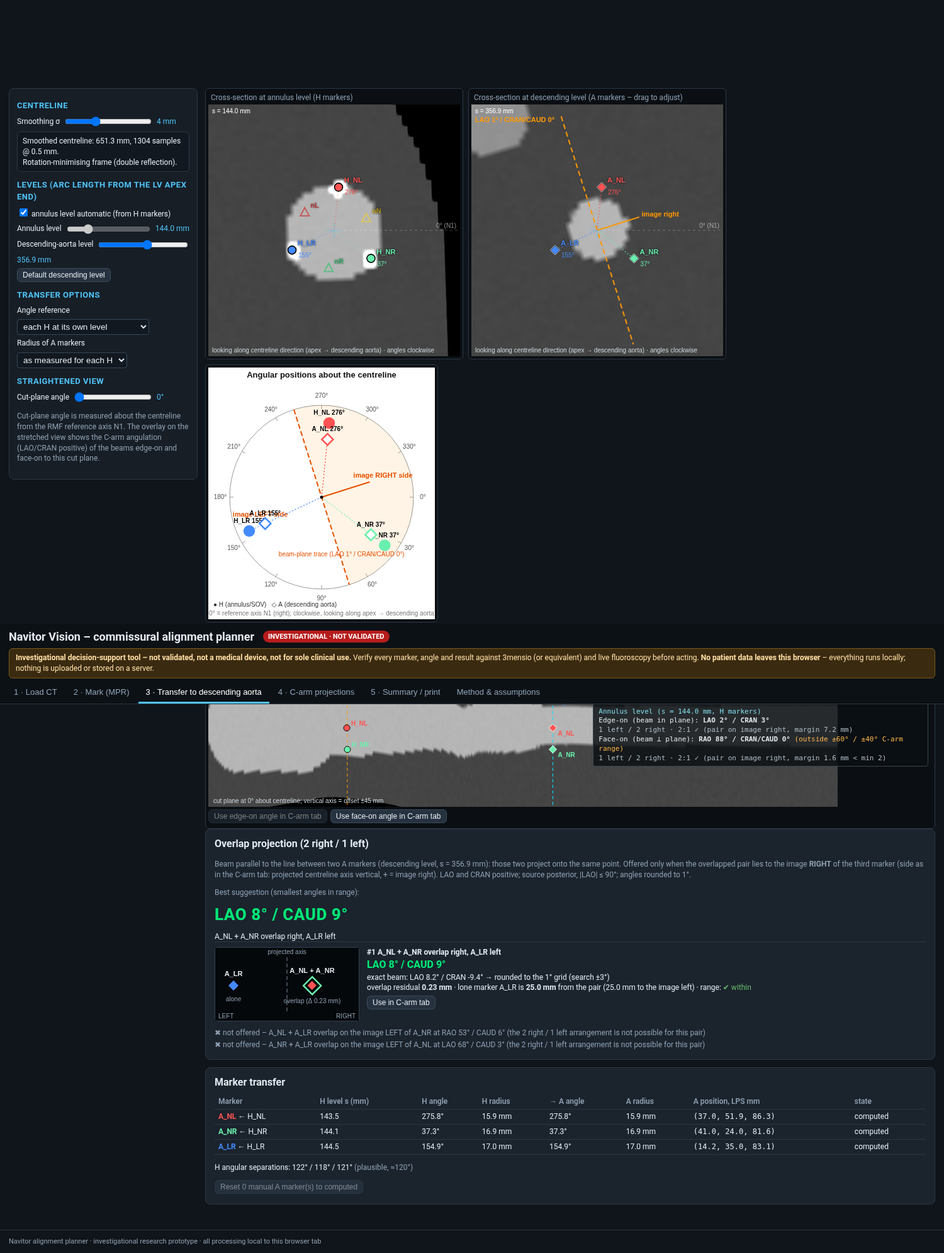
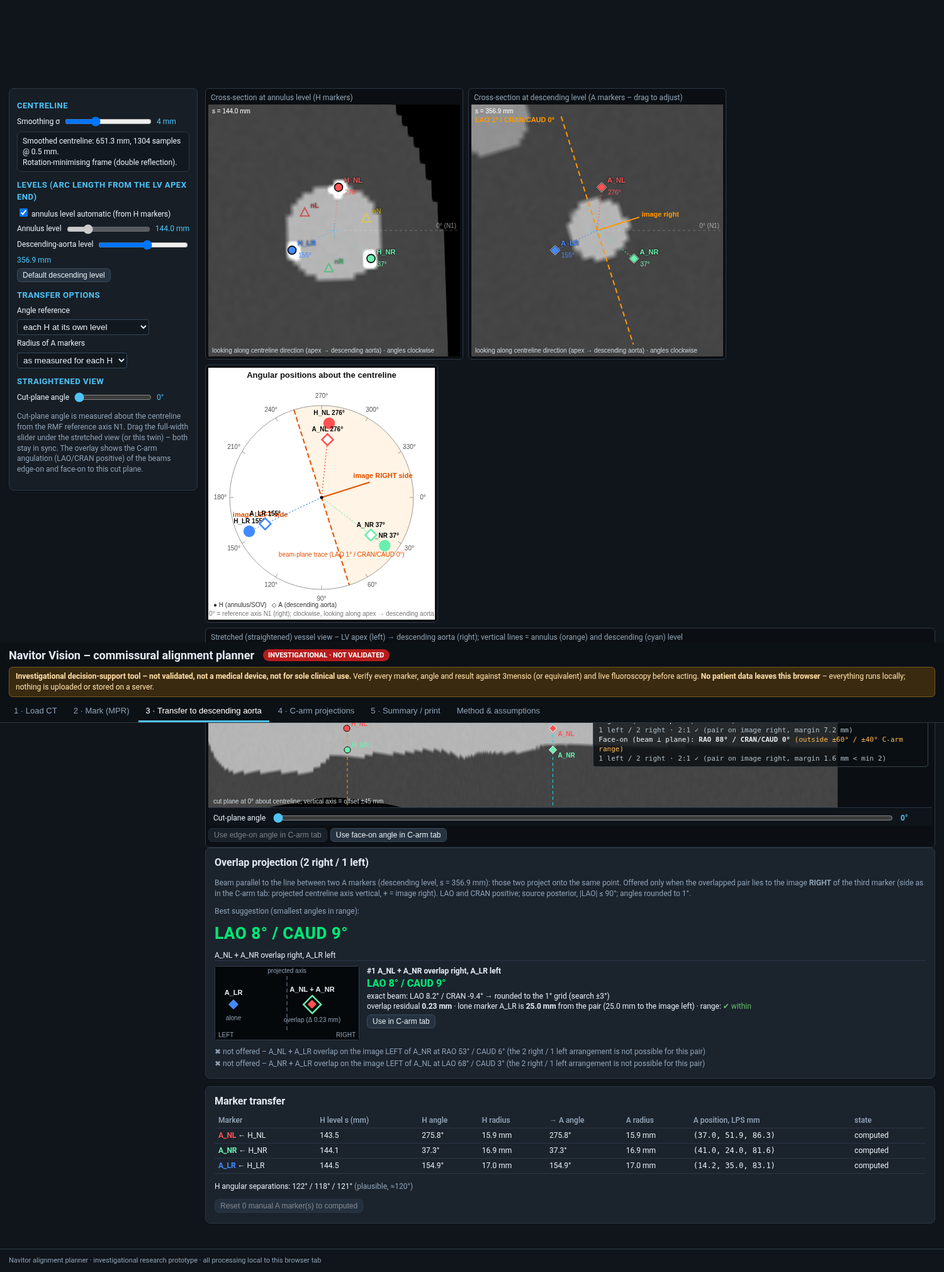
Transfer tab: Cut-plane angle slider under the stretched view (synced sidebar twin)
- primary full-width Cut-plane angle slider under the stretched vessel view (live degree readout)
- compact twin kept in the left sidebar; both drive the same S.p.cprAngle (setCprAngle)
- overlay, C-arm angulation panel and overlap panel update live from either control
- e2e: location under the view, drag/set under-view + sidebar twin sync, keyboard; refreshed 03/07/15 + new 18 screenshot
- help + README note the under-view primary + synced twin

diff --git a/index.html b/index.html
@@ -85,6 +85,14 @@ footer{padding:10px 14px;color:var(--mut);font-size:11px;border-top:1px solid va
 .slicebar{display:flex;align-items:center;gap:8px;padding:3px 2px 0}.slicebar input[type=range]{flex:1;min-width:0}.slicelab{min-width:150px;text-align:right;color:var(--mut)}
 .tag{font-size:10px;background:#8d6e00;color:#fff;border-radius:8px;padding:1px 7px;vertical-align:middle;font-weight:600}.autoOut{margin:4px 0}.autoBadge{display:inline-block;border-radius:4px;padding:2px 8px;font-weight:700;font-size:12px;margin:2px 0}.autoBadge.ok{background:#1b5e20;color:#fff}.autoBadge.warn{background:#8d6e00;color:#fff}.autoBadge.err{background:#b71c1c;color:#fff}.autoOut ul{margin:2px 0 2px 16px;padding:0}
 
+
+.cprSlider{display:flex;align-items:center;gap:10px;padding:6px 8px 2px;border-top:1px solid var(--line);background:#0e141a}
+.cprSlider .cprAngleMain{flex:1;margin:0;font-size:12px;color:var(--txt);gap:10px}
+.cprSlider .cprAngleMain input[type=range]{flex:1;min-width:120px;accent-color:var(--acc)}
+.cprSlider .cprAngleMain output{min-width:42px;color:var(--acc);font-weight:700;font-variant-numeric:tabular-nums}
+label.rng.compact{margin:4px 0}
+label.rng.compact input[type=range]{accent-color:var(--acc)}
+
 .vwrap.rel{position:relative}.cprOv{position:absolute;right:10px;top:26px;background:rgba(11,15,19,.84);border:1px solid #37474f;border-radius:4px;padding:4px 8px;font:11px/1.35 ui-monospace,Menlo,Consolas,monospace;color:#e0e6ea;pointer-events:none;max-width:46%}.cprOv .cprLv{margin-top:3px;color:#80deea}.cprOv .cprSt{color:#b0bec5}.cprUse{margin-top:4px;align-items:center}
 </style>
 </head>
@@ -212,8 +220,8 @@ footer{padding:10px 14px;color:var(--mut);font-size:11px;border-top:1px solid va
       <label class="sel">Radius of A markers <select id="radMode"><option value="keep">as measured for each H</option><option value="mean">mean of H radii</option><option value="fixed">fixed value</option></select></label>
       <label class="rng" id="fixedRow">Fixed radius <input type="number" id="fixedR" min="2" max="40" step="0.5" value="12" style="width:70px"> mm</label>
       <h3>Straightened view</h3>
-      <label class="rng">Cut-plane angle <input type="range" id="cprAngle" min="0" max="359" value="0"><output id="cprAngleO"></output></label>
-      <p class="muted small">Cut-plane angle is measured about the centreline from the RMF reference axis N1. The overlay on the stretched view shows the C-arm angulation (LAO/CRAN positive) of the beams edge-on and face-on to this cut plane.</p>
+      <label class="rng compact" title="Same control as under the stretched view">Cut-plane angle <input type="range" id="cprAngleSide" min="0" max="359" value="0" aria-label="Cut-plane angle (sidebar)"><output id="cprAngleSideO"></output></label>
+      <p class="muted small">Cut-plane angle is measured about the centreline from the RMF reference axis N1. Drag the full-width slider under the stretched view (or this twin) – both stay in sync. The overlay shows the C-arm angulation (LAO/CRAN positive) of the beams edge-on and face-on to this cut plane.</p>
     </aside>
     <div class="tmain">
       <div class="xrow">
@@ -222,6 +230,7 @@ footer{padding:10px 14px;color:var(--mut);font-size:11px;border-top:1px solid va
         <div class="vwrap"><canvas id="cvPolar1" width="360" height="400"></canvas></div>
       </div>
       <div class="vwrap wide rel"><div class="vtitle">Stretched (straightened) vessel view – LV apex (left) → descending aorta (right); vertical lines = annulus (orange) and descending (cyan) level</div><canvas id="cvCPR" width="1000" height="260"></canvas><div id="cprReadout" class="cprOv" aria-live="polite"></div>
+        <div class="cprSlider" id="cprSliderBar"><label class="rng cprAngleMain">Cut-plane angle <input type="range" id="cprAngle" min="0" max="359" value="0" aria-label="Cut-plane angle (under stretched view)"><output id="cprAngleO"></output></label></div>
         <div class="btnrow tight cprUse"><button class="btn sm" id="btnCprEdge">Use edge-on angle in C-arm tab</button><button class="btn sm" id="btnCprFace">Use face-on angle in C-arm tab</button><span id="cprUseMsg" class="muted small"></span></div></div>
       <div class="card" id="ovPanel"><h2>Overlap projection (2 right / 1 left)</h2><div id="ovBody"></div></div>
       <div id="transferTable"></div>
@@ -2544,7 +2553,9 @@ footer{padding:10px 14px;color:var(--mut);font-size:11px;border-top:1px solid va
     ['annLevel', 'descLevel'].forEach((id) => { $(id).max = Math.ceil(L); });
     $('annLevel').value = S.sH == null ? 0 : S.sH; $('descLevel').value = S.sD == null ? 0 : S.sD;
     $('annLevelO').textContent = S.sH == null ? '—' : f1(S.sH) + ' mm'; $('descLevelO').textContent = S.sD == null ? '—' : f1(S.sD) + ' mm';
-    $('annLevel').disabled = S.p.annAuto && HK.some((k) => S.m.H[k]); $('smoothO').textContent = S.p.smoothMm + ' mm'; $('cprAngleO').textContent = S.p.cprAngle + '°';
+    $('annLevel').disabled = S.p.annAuto && HK.some((k) => S.m.H[k]); $('smoothO').textContent = S.p.smoothMm + ' mm'; $('cprAngleO').textContent = S.p.cprAngle + '°'; $('cprAngleSideO').textContent = S.p.cprAngle + '°';
+    if (+$('cprAngle').value !== S.p.cprAngle) $('cprAngle').value = S.p.cprAngle;
+    if (+$('cprAngleSide').value !== S.p.cprAngle) $('cprAngleSide').value = S.p.cprAngle;
     $('fixedRow').style.display = S.p.radMode === 'fixed' ? 'flex' : 'none';
     $('clStats').textContent = S.cl ? `Smoothed centreline: ${f1(S.cl.length)} mm, ${S.cl.pts.length} samples @ 0.5 mm.\nRotation-minimising frame (double reflection).` : 'Need ≥ 2 centreline points (tab 2).';
     views.xann.draw(); views.xdesc.draw();
@@ -2755,7 +2766,7 @@ footer{padding:10px 14px;color:var(--mut);font-size:11px;border-top:1px solid va
 <li>Patient coordinates = DICOM LPS: x → patient left, y → posterior, z → superior (mm).</li>
 <li>C-arm: LAO positive, RAO negative; CRAN positive, CAUD negative. Beam direction (source→detector) d = (sin LAO·cos CRAN, −cos LAO·cos CRAN, sin CRAN). AP = 0°/0° has the source posterior and detector anterior. Image is displayed as seen from the detector: at AP patient-left is on image right, head is up.</li>
 <li>Angles about the centreline are measured clockwise as seen looking along the centreline direction (apex → descending aorta), from the RMF reference axis N1.</li>
-<li><b>Stretched view: C-arm angulation of the cut plane.</b> At a centreline level with frame (T, N1, N2) the cut plane at angle α is span{T, e}, e = cos α·N1 + sin α·N2 (the vertical axis of the stretched view); its normal is n = T × e. <b>Edge-on</b>: beam along e (in the plane and perpendicular to the centreline) – the plane projects to a line along the projected axis (any beam within the plane keeps it edge-on and gives the same marker left/right split, n·(P−C)). <b>Face-on</b>: beam along n – the plane is seen full-face and the marker lateral offsets are e·(P−C), i.e. what the stretched view displays. The beam is converted to LAO/RAO and CRAN/CAUD with the C-arm convention above (LAO, CRAN positive), choosing the representation with the source posterior (|LAO| ≤ 90°), rounded to the 1° grid of the C-arm tab; angles outside ±60° LAO/RAO or ±40° CRAN/CAUD are flagged and cannot be sent to the C-arm tab. The “left / right” counts and the 2:1 status are those of the same projection maths as the C-arm tab (A markers at the descending level, H markers at the annulus level). Face-on at α equals edge-on at α + 90°.</li></ul>
+<li><b>Stretched view: C-arm angulation of the cut plane.</b> The <b>Cut-plane angle</b> slider sits under the stretched vessel view (full width; a compact twin in the left sidebar stays in sync – one logical control). At a centreline level with frame (T, N1, N2) the cut plane at angle α is span{T, e}, e = cos α·N1 + sin α·N2 (the vertical axis of the stretched view); its normal is n = T × e. <b>Edge-on</b>: beam along e (in the plane and perpendicular to the centreline) – the plane projects to a line along the projected axis (any beam within the plane keeps it edge-on and gives the same marker left/right split, n·(P−C)). <b>Face-on</b>: beam along n – the plane is seen full-face and the marker lateral offsets are e·(P−C), i.e. what the stretched view displays. The beam is converted to LAO/RAO and CRAN/CAUD with the C-arm convention above (LAO, CRAN positive), choosing the representation with the source posterior (|LAO| ≤ 90°), rounded to the 1° grid of the C-arm tab; angles outside ±60° LAO/RAO or ±40° CRAN/CAUD are flagged and cannot be sent to the C-arm tab. The “left / right” counts and the 2:1 status are those of the same projection maths as the C-arm tab (A markers at the descending level, H markers at the annulus level). Face-on at α equals edge-on at α + 90°.</li></ul>
 <h3>Marker colours</h3><ul>
 <li><b style="color:#ffd600">▲ NCC = yellow</b>, <b style="color:#d50000">▲ LCC = red</b>, <b style="color:#00c853">▲ RCC = green</b> (cusp nadirs: triangles with a white outline, in markers, labels, lists, cross-sections, diagrams and the summary).</li>
 <li>H commissure markers are <b>circles</b>: H_NL <span style="color:#ff5252">red</span>, H_NR <span style="color:#69f0ae">green</span>, H_LR <span style="color:#448aff">blue</span> (unchanged; lighter tones than the nadir red/green, different shape, and always labelled). A markers are diamonds.</li>
@@ -2949,7 +2960,7 @@ ${r.warnings.length ? '<ul class="warn small">' + r.warnings.map((w) => '<li>' +
     } catch (e) { status('Could not load markers: ' + e.message, 'err'); }
   }
   function syncControls() {
-    $('smooth').value = S.p.smoothMm; $('chkAnnAuto').checked = S.p.annAuto; $('refMode').value = S.p.refMode; $('radMode').value = S.p.radMode; $('fixedR').value = S.p.fixedR; $('cprAngle').value = S.p.cprAngle;
+    $('smooth').value = S.p.smoothMm; $('chkAnnAuto').checked = S.p.annAuto; $('refMode').value = S.p.refMode; $('radMode').value = S.p.radMode; $('fixedR').value = S.p.fixedR; $('cprAngle').value = S.p.cprAngle; $('cprAngleSide').value = S.p.cprAngle;
     $('minMargin').value = S.p.minMargin; $('pracFrac').value = Math.round(S.p.pracFrac * 100); $('sideSel').value = S.p.side; $('chkStable').checked = S.p.stableOnly;
   }
 
@@ -3011,7 +3022,8 @@ ${r.warnings.length ? '<ul class="warn small">' + r.warnings.map((w) => '<li>' +
     $('radMode').onchange = (e) => { S.p.radMode = e.target.value; onChanged(); }; $('fixedR').oninput = (e) => { S.p.fixedR = +e.target.value || 12; onChanged(); };
     $('ovBody').addEventListener('click', (e) => { const b = e.target.closest('button[data-ovuse]'); if (b && !b.disabled) useOverlap(+b.dataset.ovuse); });
     $('btnCprEdge').onclick = () => useCprAngle('edge'); $('btnCprFace').onclick = () => useCprAngle('face');
-    $('cprAngle').oninput = (e) => { S.p.cprAngle = +e.target.value; cprCache = null; renderAll(); };
+    const setCprAngle = (v) => { S.p.cprAngle = ((+v % 360) + 360) % 360; $('cprAngle').value = S.p.cprAngle; $('cprAngleSide').value = S.p.cprAngle; $('cprAngleSide').value = S.p.cprAngle; cprCache = null; renderAll(); };
+    $('cprAngle').oninput = (e) => setCprAngle(e.target.value); $('cprAngleSide').oninput = (e) => setCprAngle(e.target.value);
     // carm controls
     $('minMargin').onchange = (e) => { S.p.minMargin = Math.max(0, +e.target.value || 0); rescan(); renderAll(); };
     $('pracFrac').onchange = (e) => { S.p.pracFrac = Math.min(1, Math.max(0.1, (+e.target.value || 70) / 100)); rerank(); renderAll(); };

diff --git a/tests/e2e.js b/tests/e2e.js
@@ -139,12 +139,29 @@ async function clickAt(pg, key, P, opts) { await setCross(pg, P); const [x, y] =
     ok(/\d+ left \/ \d+ right/.test(t) && /(2:1 ✓|not 2:1)/.test(t), t); ok(await pg.isVisible('#cprReadout'), 'overlay visible');
     await pg.screenshot({ path: path.join(shots, '15_stretched_carm_angulation.png'), fullPage: true });
   });
+  await test('Cut-plane angle primary slider sits under the stretched view (full width); compact sidebar twin stays in sync (one logical control)', async () => {
+    const loc = await pg.evaluate(() => {
+      const under = document.getElementById('cprAngle'), side = document.getElementById('cprAngleSide'), bar = document.getElementById('cprSliderBar');
+      const wrap = document.getElementById('cvCPR').closest('.vwrap');
+      return {
+        underInWrap: !!(under && wrap && wrap.contains(under) && bar && wrap.contains(bar)),
+        underAfterCanvas: !!(under && (under.compareDocumentPosition(document.getElementById('cvCPR')) & Node.DOCUMENT_POSITION_PRECEDING)),
+        underBeforeButtons: !!(under && (under.compareDocumentPosition(document.getElementById('btnCprEdge')) & Node.DOCUMENT_POSITION_FOLLOWING)),
+        sideInAside: !!(side && document.querySelector('#tab-transfer aside.panel').contains(side)),
+        label: bar ? bar.textContent.trim().slice(0, 20) : '',
+        ids: { under: !!under, side: !!side, outU: !!document.getElementById('cprAngleO'), outS: !!document.getElementById('cprAngleSideO') }
+      };
+    });
+    ok(loc.underInWrap && loc.underAfterCanvas && loc.underBeforeButtons, 'primary under stretched view: ' + JSON.stringify(loc));
+    ok(loc.sideInAside && loc.ids.under && loc.ids.side && loc.ids.outU && loc.ids.outS, 'sidebar twin present: ' + JSON.stringify(loc));
+    ok(/Cut-plane angle/.test(loc.label), 'label ' + loc.label);
+  });
   await test('moving the cut-plane slider with REAL keyboard/mouse events changes the overlay live; angles equal the independent maths (edge-on = beam along e, face-on = beam along n) at both levels', async () => {
     const sl = pg.locator('#cprAngle'); await sl.focus(); const seen = new Set();
     seen.add(await cprTxt());
     for (let i = 0; i < 4; i++) { for (let k = 0; k < 25; k++) await pg.keyboard.press('ArrowRight'); seen.add(await cprTxt()); }
     ok(seen.size === 5, 'overlay text should change at each of the 4 slider moves: ' + seen.size);
-    await pg.waitForTimeout(250); const a100 = await pg.evaluate(() => NavApp.S.p.cprAngle); ok(a100 >= 96 && a100 <= 100 && (await pg.textContent('#cprAngleO')) === a100 + '°' && new RegExp('Cut plane ' + a100 + '°').test(await cprTxt()), 'label ' + await pg.textContent('#cprAngleO') + ' / ' + a100);
+    await pg.waitForTimeout(250); const a100 = await pg.evaluate(() => NavApp.S.p.cprAngle); ok(a100 >= 96 && a100 <= 100 && (await pg.textContent('#cprAngleO')) === a100 + '°' && (await pg.textContent('#cprAngleSideO')) === a100 + '°' && +await pg.inputValue('#cprAngleSide') === a100 && new RegExp('Cut plane ' + a100 + '°').test(await cprTxt()), 'under-view + sidebar twin synced at ' + a100 + '° / label ' + await pg.textContent('#cprAngleO'));
     await sl.evaluate((el) => el.scrollIntoView({ block: 'center' })); const box = await sl.boundingBox(); await pg.mouse.click(box.x + box.width * 0.5, box.y + box.height / 2); await pg.waitForTimeout(100);       // click the middle of the track -> ~180°
     const a = await pg.evaluate(() => NavApp.S.p.cprAngle); ok(a > 160 && a < 200, 'slider click -> ' + a);
     // independent check in the page: angles from first principles (no use of cutPlaneBeams)
@@ -163,6 +180,41 @@ async function clickAt(pg, key, P, opts) { await setCross(pg, P); const [x, y] =
     const g = async (al) => { await pg.evaluate((al) => { const el = document.getElementById('cprAngle'); el.value = String(al); el.dispatchEvent(new Event('input', { bubbles: true })); }, al); await pg.waitForTimeout(150); return pg.evaluate(() => { const D = NavApp.cprBeams().levels.desc; return { e: [D.edge.lao, D.edge.cran], f: [D.face.lao, D.face.cran], txt: document.getElementById('cprReadout').textContent }; }); };
     const a = await g(40), b = await g(130), c = await g(300);
     ok(JSON.stringify(a.f) === JSON.stringify(b.e), 'face(40) ' + a.f + ' vs edge(130) ' + b.e); ok(a.txt !== b.txt && b.txt !== c.txt, 'text should change');
+  });
+  await test('under-view Cut-plane slider: drag/set updates overlay, C-arm angulation panel and sidebar twin live; sidebar twin drives the under-view slider too', async () => {
+    const under = pg.locator('#cprAngle'), side = pg.locator('#cprAngleSide');
+    await under.focus();
+    // set via the under-view control (dispatch input as if dragged)
+    await pg.evaluate(() => { const el = document.getElementById('cprAngle'); el.value = '45'; el.dispatchEvent(new Event('input', { bubbles: true })); });
+    await pg.waitForTimeout(250);
+    let st = await pg.evaluate(() => ({ a: NavApp.S.p.cprAngle, u: +document.getElementById('cprAngle').value, s: +document.getElementById('cprAngleSide').value, ou: document.getElementById('cprAngleO').textContent, os: document.getElementById('cprAngleSideO').textContent, ov: document.getElementById('cprReadout').textContent, h: (() => { const d = document.getElementById('cvCPR').getContext('2d').getImageData(0, 0, 100, 60).data; let h = 0; for (let i = 0; i < d.length; i += 17) h = (h * 33 + d[i]) | 0; return h; })() }));
+    ok(st.a === 45 && st.u === 45 && st.s === 45 && st.ou === '45°' && st.os === '45°', 'under-view set -> both synced: ' + JSON.stringify(st));
+    ok(/Cut plane 45°/.test(st.ov) && /Edge-on/.test(st.ov) && /Face-on/.test(st.ov), 'overlay updated: ' + st.ov.slice(0, 120));
+    const hash45 = st.h;
+    // real mouse drag on the under-view slider thumb area (click toward the right end)
+    const box = await under.boundingBox(); ok(box && box.width > 80, 'slider visible under the view');
+    // drag the thumb across the track (more reliable than a single click on some Chrome builds)
+    await pg.mouse.move(box.x + box.width * 0.15, box.y + box.height / 2); await pg.mouse.down();
+    await pg.mouse.move(box.x + box.width * 0.75, box.y + box.height / 2, { steps: 12 }); await pg.mouse.up();
+    await pg.waitForTimeout(350);
+    st = await pg.evaluate(() => ({ a: NavApp.S.p.cprAngle, s: +document.getElementById('cprAngleSide').value, ou: document.getElementById('cprAngleO').textContent, os: document.getElementById('cprAngleSideO').textContent, ov: document.getElementById('cprReadout').textContent, h: (() => { const d = document.getElementById('cvCPR').getContext('2d').getImageData(0, 0, 100, 60).data; let h = 0; for (let i = 0; i < d.length; i += 17) h = (h * 33 + d[i]) | 0; return h; })() }));
+    ok(st.a > 45 && st.a < 320 && st.s === st.a && st.ou === st.a + '°' && st.os === st.a + '°', 'drag under-view -> synced at ' + st.a);
+    ok(new RegExp('Cut plane ' + st.a + '°').test(st.ov), 'overlay follows drag');
+    ok(st.h !== hash45, 'stretched view re-rendered after drag (hash ' + hash45 + ' -> ' + st.h + ')');
+    const afterDrag = st.a;
+    // drive from the sidebar twin
+    await pg.evaluate(() => { const el = document.getElementById('cprAngleSide'); el.value = '120'; el.dispatchEvent(new Event('input', { bubbles: true })); });
+    await pg.waitForTimeout(250);
+    st = await pg.evaluate(() => ({ a: NavApp.S.p.cprAngle, u: +document.getElementById('cprAngle').value, s: +document.getElementById('cprAngleSide').value, ou: document.getElementById('cprAngleO').textContent, os: document.getElementById('cprAngleSideO').textContent, ov: document.getElementById('cprReadout').textContent }));
+    ok(st.a === 120 && st.u === 120 && st.s === 120 && st.ou === '120°' && st.os === '120°', 'sidebar twin drives under-view: ' + JSON.stringify(st));
+    ok(/Cut plane 120°/.test(st.ov), 'overlay follows sidebar'); ok(afterDrag !== 120, 'value actually changed from drag position');
+    // keyboard on the under-view slider
+    await under.focus(); await pg.keyboard.press('ArrowRight'); await pg.keyboard.press('ArrowRight'); await pg.waitForTimeout(200);
+    const aKey = await pg.evaluate(() => NavApp.S.p.cprAngle); ok(aKey === 122, 'ArrowRight on under-view slider -> ' + aKey);
+    ok((await pg.textContent('#cprAngleSideO')) === '122°' && +await pg.inputValue('#cprAngleSide') === 122, 'sidebar twin follows keyboard');
+    await pg.locator('#cprSliderBar').scrollIntoViewIfNeeded(); await pg.screenshot({ path: path.join(shots, '18_cutplane_slider_under_stretched.png'), fullPage: true });
+    // restore 0 for following tests
+    await pg.evaluate(() => { const el = document.getElementById('cprAngle'); el.value = '0'; el.dispatchEvent(new Event('input', { bubbles: true })); });
   });
   await test('"Use edge-on / face-on angle in C-arm tab": selects that projection (1° grid) in the C-arm tab; the C-arm tab evaluation equals the overlay status; out-of-range angles disable the button', async () => {
     const out = [];

diff --git a/src/js/app.js b/src/js/app.js
@@ -399,7 +399,9 @@
     ['annLevel', 'descLevel'].forEach((id) => { $(id).max = Math.ceil(L); });
     $('annLevel').value = S.sH == null ? 0 : S.sH; $('descLevel').value = S.sD == null ? 0 : S.sD;
     $('annLevelO').textContent = S.sH == null ? '—' : f1(S.sH) + ' mm'; $('descLevelO').textContent = S.sD == null ? '—' : f1(S.sD) + ' mm';
-    $('annLevel').disabled = S.p.annAuto && HK.some((k) => S.m.H[k]); $('smoothO').textContent = S.p.smoothMm + ' mm'; $('cprAngleO').textContent = S.p.cprAngle + '°';
+    $('annLevel').disabled = S.p.annAuto && HK.some((k) => S.m.H[k]); $('smoothO').textContent = S.p.smoothMm + ' mm'; $('cprAngleO').textContent = S.p.cprAngle + '°'; $('cprAngleSideO').textContent = S.p.cprAngle + '°';
+    if (+$('cprAngle').value !== S.p.cprAngle) $('cprAngle').value = S.p.cprAngle;
+    if (+$('cprAngleSide').value !== S.p.cprAngle) $('cprAngleSide').value = S.p.cprAngle;
     $('fixedRow').style.display = S.p.radMode === 'fixed' ? 'flex' : 'none';
     $('clStats').textContent = S.cl ? `Smoothed centreline: ${f1(S.cl.length)} mm, ${S.cl.pts.length} samples @ 0.5 mm.\nRotation-minimising frame (double reflection).` : 'Need ≥ 2 centreline points (tab 2).';
     views.xann.draw(); views.xdesc.draw();
@@ -610,7 +612,7 @@
 <li>Patient coordinates = DICOM LPS: x → patient left, y → posterior, z → superior (mm).</li>
 <li>C-arm: LAO positive, RAO negative; CRAN positive, CAUD negative. Beam direction (source→detector) d = (sin LAO·cos CRAN, −cos LAO·cos CRAN, sin CRAN). AP = 0°/0° has the source posterior and detector anterior. Image is displayed as seen from the detector: at AP patient-left is on image right, head is up.</li>
 <li>Angles about the centreline are measured clockwise as seen looking along the centreline direction (apex → descending aorta), from the RMF reference axis N1.</li>
-<li><b>Stretched view: C-arm angulation of the cut plane.</b> At a centreline level with frame (T, N1, N2) the cut plane at angle α is span{T, e}, e = cos α·N1 + sin α·N2 (the vertical axis of the stretched view); its normal is n = T × e. <b>Edge-on</b>: beam along e (in the plane and perpendicular to the centreline) – the plane projects to a line along the projected axis (any beam within the plane keeps it edge-on and gives the same marker left/right split, n·(P−C)). <b>Face-on</b>: beam along n – the plane is seen full-face and the marker lateral offsets are e·(P−C), i.e. what the stretched view displays. The beam is converted to LAO/RAO and CRAN/CAUD with the C-arm convention above (LAO, CRAN positive), choosing the representation with the source posterior (|LAO| ≤ 90°), rounded to the 1° grid of the C-arm tab; angles outside ±60° LAO/RAO or ±40° CRAN/CAUD are flagged and cannot be sent to the C-arm tab. The “left / right” counts and the 2:1 status are those of the same projection maths as the C-arm tab (A markers at the descending level, H markers at the annulus level). Face-on at α equals edge-on at α + 90°.</li></ul>
+<li><b>Stretched view: C-arm angulation of the cut plane.</b> The <b>Cut-plane angle</b> slider sits under the stretched vessel view (full width; a compact twin in the left sidebar stays in sync – one logical control). At a centreline level with frame (T, N1, N2) the cut plane at angle α is span{T, e}, e = cos α·N1 + sin α·N2 (the vertical axis of the stretched view); its normal is n = T × e. <b>Edge-on</b>: beam along e (in the plane and perpendicular to the centreline) – the plane projects to a line along the projected axis (any beam within the plane keeps it edge-on and gives the same marker left/right split, n·(P−C)). <b>Face-on</b>: beam along n – the plane is seen full-face and the marker lateral offsets are e·(P−C), i.e. what the stretched view displays. The beam is converted to LAO/RAO and CRAN/CAUD with the C-arm convention above (LAO, CRAN positive), choosing the representation with the source posterior (|LAO| ≤ 90°), rounded to the 1° grid of the C-arm tab; angles outside ±60° LAO/RAO or ±40° CRAN/CAUD are flagged and cannot be sent to the C-arm tab. The “left / right” counts and the 2:1 status are those of the same projection maths as the C-arm tab (A markers at the descending level, H markers at the annulus level). Face-on at α equals edge-on at α + 90°.</li></ul>
 <h3>Marker colours</h3><ul>
 <li><b style="color:#ffd600">▲ NCC = yellow</b>, <b style="color:#d50000">▲ LCC = red</b>, <b style="color:#00c853">▲ RCC = green</b> (cusp nadirs: triangles with a white outline, in markers, labels, lists, cross-sections, diagrams and the summary).</li>
 <li>H commissure markers are <b>circles</b>: H_NL <span style="color:#ff5252">red</span>, H_NR <span style="color:#69f0ae">green</span>, H_LR <span style="color:#448aff">blue</span> (unchanged; lighter tones than the nadir red/green, different shape, and always labelled). A markers are diamonds.</li>
@@ -804,7 +806,7 @@ ${r.warnings.length ? '<ul class="warn small">' + r.warnings.map((w) => '<li>' +
     } catch (e) { status('Could not load markers: ' + e.message, 'err'); }
   }
   function syncControls() {
-    $('smooth').value = S.p.smoothMm; $('chkAnnAuto').checked = S.p.annAuto; $('refMode').value = S.p.refMode; $('radMode').value = S.p.radMode; $('fixedR').value = S.p.fixedR; $('cprAngle').value = S.p.cprAngle;
+    $('smooth').value = S.p.smoothMm; $('chkAnnAuto').checked = S.p.annAuto; $('refMode').value = S.p.refMode; $('radMode').value = S.p.radMode; $('fixedR').value = S.p.fixedR; $('cprAngle').value = S.p.cprAngle; $('cprAngleSide').value = S.p.cprAngle;
     $('minMargin').value = S.p.minMargin; $('pracFrac').value = Math.round(S.p.pracFrac * 100); $('sideSel').value = S.p.side; $('chkStable').checked = S.p.stableOnly;
   }
 
@@ -866,7 +868,8 @@ ${r.warnings.length ? '<ul class="warn small">' + r.warnings.map((w) => '<li>' +
     $('radMode').onchange = (e) => { S.p.radMode = e.target.value; onChanged(); }; $('fixedR').oninput = (e) => { S.p.fixedR = +e.target.value || 12; onChanged(); };
     $('ovBody').addEventListener('click', (e) => { const b = e.target.closest('button[data-ovuse]'); if (b && !b.disabled) useOverlap(+b.dataset.ovuse); });
     $('btnCprEdge').onclick = () => useCprAngle('edge'); $('btnCprFace').onclick = () => useCprAngle('face');
-    $('cprAngle').oninput = (e) => { S.p.cprAngle = +e.target.value; cprCache = null; renderAll(); };
+    const setCprAngle = (v) => { S.p.cprAngle = ((+v % 360) + 360) % 360; $('cprAngle').value = S.p.cprAngle; $('cprAngleSide').value = S.p.cprAngle; $('cprAngleSide').value = S.p.cprAngle; cprCache = null; renderAll(); };
+    $('cprAngle').oninput = (e) => setCprAngle(e.target.value); $('cprAngleSide').oninput = (e) => setCprAngle(e.target.value);
     // carm controls
     $('minMargin').onchange = (e) => { S.p.minMargin = Math.max(0, +e.target.value || 0); rescan(); renderAll(); };
     $('pracFrac').onchange = (e) => { S.p.pracFrac = Math.min(1, Math.max(0.1, (+e.target.value || 70) / 100)); rerank(); renderAll(); };

diff --git a/src/index.template.html b/src/index.template.html
@@ -130,8 +130,8 @@
       <label class="sel">Radius of A markers <select id="radMode"><option value="keep">as measured for each H</option><option value="mean">mean of H radii</option><option value="fixed">fixed value</option></select></label>
       <label class="rng" id="fixedRow">Fixed radius <input type="number" id="fixedR" min="2" max="40" step="0.5" value="12" style="width:70px"> mm</label>
       <h3>Straightened view</h3>
-      <label class="rng">Cut-plane angle <input type="range" id="cprAngle" min="0" max="359" value="0"><output id="cprAngleO"></output></label>
-      <p class="muted small">Cut-plane angle is measured about the centreline from the RMF reference axis N1. The overlay on the stretched view shows the C-arm angulation (LAO/CRAN positive) of the beams edge-on and face-on to this cut plane.</p>
+      <label class="rng compact" title="Same control as under the stretched view">Cut-plane angle <input type="range" id="cprAngleSide" min="0" max="359" value="0" aria-label="Cut-plane angle (sidebar)"><output id="cprAngleSideO"></output></label>
+      <p class="muted small">Cut-plane angle is measured about the centreline from the RMF reference axis N1. Drag the full-width slider under the stretched view (or this twin) – both stay in sync. The overlay shows the C-arm angulation (LAO/CRAN positive) of the beams edge-on and face-on to this cut plane.</p>
     </aside>
     <div class="tmain">
       <div class="xrow">
@@ -140,6 +140,7 @@
         <div class="vwrap"><canvas id="cvPolar1" width="360" height="400"></canvas></div>
       </div>
       <div class="vwrap wide rel"><div class="vtitle">Stretched (straightened) vessel view – LV apex (left) → descending aorta (right); vertical lines = annulus (orange) and descending (cyan) level</div><canvas id="cvCPR" width="1000" height="260"></canvas><div id="cprReadout" class="cprOv" aria-live="polite"></div>
+        <div class="cprSlider" id="cprSliderBar"><label class="rng cprAngleMain">Cut-plane angle <input type="range" id="cprAngle" min="0" max="359" value="0" aria-label="Cut-plane angle (under stretched view)"><output id="cprAngleO"></output></label></div>
         <div class="btnrow tight cprUse"><button class="btn sm" id="btnCprEdge">Use edge-on angle in C-arm tab</button><button class="btn sm" id="btnCprFace">Use face-on angle in C-arm tab</button><span id="cprUseMsg" class="muted small"></span></div></div>
       <div class="card" id="ovPanel"><h2>Overlap projection (2 right / 1 left)</h2><div id="ovBody"></div></div>
       <div id="transferTable"></div>

diff --git a/src/css/style.css b/src/css/style.css
@@ -79,4 +79,12 @@ footer{padding:10px 14px;color:var(--mut);font-size:11px;border-top:1px solid va
 .slicebar{display:flex;align-items:center;gap:8px;padding:3px 2px 0}.slicebar input[type=range]{flex:1;min-width:0}.slicelab{min-width:150px;text-align:right;color:var(--mut)}
 .tag{font-size:10px;background:#8d6e00;color:#fff;border-radius:8px;padding:1px 7px;vertical-align:middle;font-weight:600}.autoOut{margin:4px 0}.autoBadge{display:inline-block;border-radius:4px;padding:2px 8px;font-weight:700;font-size:12px;margin:2px 0}.autoBadge.ok{background:#1b5e20;color:#fff}.autoBadge.warn{background:#8d6e00;color:#fff}.autoBadge.err{background:#b71c1c;color:#fff}.autoOut ul{margin:2px 0 2px 16px;padding:0}
 
+
+.cprSlider{display:flex;align-items:center;gap:10px;padding:6px 8px 2px;border-top:1px solid var(--line);background:#0e141a}
+.cprSlider .cprAngleMain{flex:1;margin:0;font-size:12px;color:var(--txt);gap:10px}
+.cprSlider .cprAngleMain input[type=range]{flex:1;min-width:120px;accent-color:var(--acc)}
+.cprSlider .cprAngleMain output{min-width:42px;color:var(--acc);font-weight:700;font-variant-numeric:tabular-nums}
+label.rng.compact{margin:4px 0}
+label.rng.compact input[type=range]{accent-color:var(--acc)}
+
 .vwrap.rel{position:relative}.cprOv{position:absolute;right:10px;top:26px;background:rgba(11,15,19,.84);border:1px solid #37474f;border-radius:4px;padding:4px 8px;font:11px/1.35 ui-monospace,Menlo,Consolas,monospace;color:#e0e6ea;pointer-events:none;max-width:46%}.cprOv .cprLv{margin-top:3px;color:#80deea}.cprOv .cprSt{color:#b0bec5}.cprUse{margin-top:4px;align-items:center}

diff --git a/README.md b/README.md
@@ -36,7 +36,7 @@ Browser: current Chrome/Edge/Firefox/Safari (ZIP input uses the built-in `Decomp
 2. **Mark (MPR)** – axial/coronal/sagittal with window/level presets. Pick a tool, click on a view to place a marker at that in-plane position on the view's *current slice*:
    optional cusp nadirs (NCC yellow ▲ / LCC red ▲ / RCC green ▲; set by hand or with **Auto-detect nadirs + commissures**, see below), **H_NL, H_NR, H_LR**, and **centreline points in the order LV apex → LV outflow/aortic root → arch → descending aorta** (C1 = apex; optionally "insert at nearest segment"). The order is checked against the root markers (first point must be the end nearer the aortic root; falls back to height) and a warning is shown if it looks reversed; all calculations then use the corrected direction anyway, so results do not depend on the direction you click in (the *Reverse order* button just fixes the numbering). Sessions saved by older versions (bifurcation → apex) are detected and converted when loaded.
    Scroll / two-finger swipe = slice (trackpad deltas accumulate, ~30 px per slice; one mouse-wheel notch = 1 slice), ↑/↓/PageUp/PageDown = slice on the hovered view (Shift = 5), slider + k/N label under each view, Ctrl+scroll or pinch = zoom, **drag the round handles at the ends of the blue crosshair lines to rotate the other two planes (oblique / double-oblique MPR, see below), drag a line to move that plane**, Shift/middle-drag = pan, right-drag = W/L, drag marker = move, Alt+click marker = delete, ⌖/✕ in the lists = go to / delete.
-3. **Transfer** – smoothed centreline (σ slider), rotation-minimising frame (RMF), annulus-level and descending-aorta-level sliders (arc length is measured from the LV apex end; default descending level = 80 mm of centreline beyond the highest centreline point, i.e. past the top of the arch), cross-sections at both levels (markers draggable), a **stretched (straightened) vessel view** with adjustable cut-plane angle and a live **C-arm angulation overlay** (see below), a schematic polar plot and a table of angles/radii, and the **Overlap projection (2 right / 1 left)** panel (see below). Output: **A_NL, A_NR, A_LR** in patient LPS mm (draggable → marked "manual"; reset button).
+3. **Transfer** – smoothed centreline (σ slider), rotation-minimising frame (RMF), annulus-level and descending-aorta-level sliders (arc length is measured from the LV apex end; default descending level = 80 mm of centreline beyond the highest centreline point, i.e. past the top of the arch), cross-sections at both levels (markers draggable), a **stretched (straightened) vessel view** with a full-width **Cut-plane angle** slider under it (synced twin in the sidebar) and a live **C-arm angulation overlay** (see below), a schematic polar plot and a table of angles/radii, and the **Overlap projection (2 right / 1 left)** panel (see below). Output: **A_NL, A_NR, A_LR** in patient LPS mm (draggable → marked "manual"; reset button).
 4. **C-arm projections** – the suggested (selected) projection angles and the best-ranked row of each list are shown in **bold green** (high contrast on the dark theme, `--suggest` #00e676; darker green #0b6e2f on the white printed summary) – heat map of the 2:1 margin over LAO/RAO −60…+60° × CRAN/CAUD −40…+40° (1° grid), **ranked lists** (best separation *S#*; most practical *P#* = margin ≥ x % of best, smallest angle burden √(LAO²+CRAN²) first; 4° non-maximum suppression; optional filter "pair on image left/right" and "±2° stable only"), click to select, simulated projection diagram of the three A markers left/right of the projected centreline axis, the corresponding H-marker view, and a cross-section schematic with the beam-plane trace.
 5. **Summary / print** – one-page A4 summary (selected projection angle in bold green, the best overlap projection (2 right / 1 left) in bold green, best entries of the alternatives in bold green, margin, marker coordinates, diagrams, heat map, protocol reminder, limitations, disclaimer) with optional anonymised ID / age / note; **Print / Save as PDF**. No patient name, no DICOM identifiers, no image pixels are in the summary.
 6. **Method & assumptions** – the conventions and approximations below, in-app.
@@ -129,7 +129,7 @@ A panel below the stretched view suggests C-arm projections, at the **descending
 
 ### Stretched view: C-arm angulation of the cut plane (Transfer tab)
 
-While you move the **cut-plane angle** slider, an overlay on the stretched vessel view shows the C-arm angulation that belongs to the displayed cut plane, at the **descending level** (A markers) and the **annulus level** (H markers), plus **Use edge-on / face-on angle in C-arm tab** buttons (descending level; selects the projection in the C-arm tab, snapped to its 1° grid).
+The **Cut-plane angle** slider sits under the stretched vessel view (full width, live degree readout); a compact twin in the left sidebar stays in sync (one logical control – either updates the same state). While you move it, an overlay on the stretched vessel view shows the C-arm angulation that belongs to the displayed cut plane, at the **descending level** (A markers) and the **annulus level** (H markers), plus **Use edge-on / face-on angle in C-arm tab** buttons (descending level; selects the projection in the C-arm tab, snapped to its 1° grid).
 
 * **Cut plane.** At a centreline level with RMF frame (T, N1, N2) and slider angle α (measured about the centreline from N1 towards N2, as for the image), the cut plane is span{T, e} with e = cos α·N1 + sin α·N2 – the vertical axis of the stretched view – and normal n = T × e. The plane follows the centreline, so its normal differs between levels (hence one angulation per level).
 * **Edge-on (beam in plane)** – primary. Beam direction d = e: in the plane *and* perpendicular to the centreline, so the plane projects to a line along the projected vessel axis and the axis is not foreshortened. Any other beam inside the plane (d = cos t·T + sin t·e) also keeps it edge-on and gives exactly the same marker left/right split (lateral offsets n·(P−C)); e is the one without foreshortening.
@@ -168,7 +168,7 @@ bash tests/run_all.sh                          # or: npm test
 
 Everything the tests generate is untracked and lives under `tests/out/` (log: `tests/out/results.txt`, per-step logs: `tests/out/steps/`, e2e screenshots: `tests/out/screenshots/`), so a test run leaves `git status` clean. The committed images in `screenshots/` are reference screenshots of the phantom; refresh them deliberately with `NVAP_SHOTS=screenshots bash tests/run_all.sh`. Unit tests alone (no browser, no venv): `node tests/test_math.js`, `test_dicom.js`, `test_mpr.js`, `test_codecs.js`, `test_nadir.js` (~1 min).
 
-Last full run: **33 maths + 8 DICOM/geometry + 8 oblique-MPR + 11 codec + 17 nadir/commissure auto-detect + 74 headless-Chrome checks, plus both Python oracle checks (0 mismatches), all passed.**
+Last full run: **33 maths + 8 DICOM/geometry + 8 oblique-MPR + 11 codec + 17 nadir/commissure auto-detect + 76 headless-Chrome checks, plus both Python oracle checks (0 mismatches), all passed.**
 
 * `tests/test_math.js` – beam/image-basis geometry; straight-axis ring with 0/120/240° markers → AP is 2:1 with 6 mm margin; **known rotation → known angle** (rotate markers 25° → best LAO = 25° and −35°, margin = ρ/2, independent of CRAN); **tilted axis constructed so LAO 8°/CRAN 19° is the exact 2:1 optimum → recovered**; fast plane-based evaluation vs explicit 2D projection agree (signed offsets, side, class; 2000 random cases); RMF orthonormal and twist-free on a helix; angle transfer on a planar arc preserves the Frenet-relative angle; invariance to the RMF start vector; ranking/NMS properties.
 * Centreline order (apex → descending aorta) in `test_math.js` + `e2e.js`: order check (root-marker distance, height fallback, tie, <2 points); the same geometry entered in either direction gives **identical** A markers, annulus/descending levels, projection scan, rankings and selection; a non-canonicalised reversed centreline still agrees to < 0.05 mm; flow-axis hint sign; warning + *Reverse order* button; *Align to centreline* independent of entry order; session v2 round-trip and automatic conversion of old (bifurcation → apex) sessions incl. level conversion; centreline-only auto-detect scans the apex end for both entry orders.
